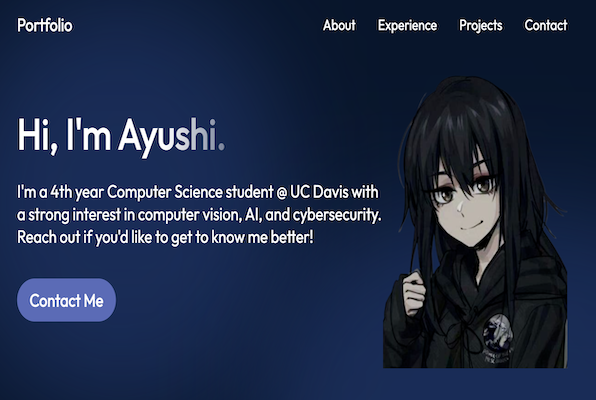
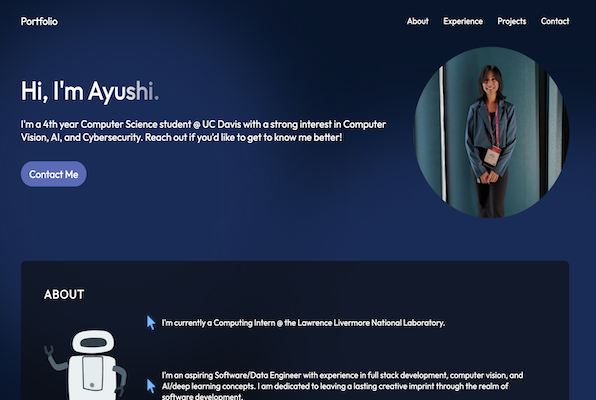
minor fixes

diff --git a/src/components/About/About.jsx b/src/components/About/About.jsx
@@ -17,27 +17,24 @@ export const About = () => {
             <li className={styles.aboutItem}>
                 <img src={getImageUrl("about/cursorIcon.png")} alt= "Cursor icon"/>
                 <div className={styles.aboutItemText}>
-                    <h3>Frontend Developer</h3>
                     <p>
-                        I'm a frontend dev blah blah I love coding yey
+                        I'm currently a Computing Intern @ the Lawrence Livermore National Laboratory. 
                     </p>
                 </div>
             </li>
             <li className={styles.aboutItem}>
-                <img src={getImageUrl("about/serverIcon.png")} alt= "Server icon"/>
+                <img src={getImageUrl("about/cursorIcon.png")} alt= "Cursor icon"/>
                 <div className={styles.aboutItemText}>
-                    <h3>Backend Developer</h3>
                     <p>
-                    I can also do backend lol but i wanna be better
+                    I'm an aspiring Software/Data Engineer with experience in full stack development, computer vision, and AI/deep learning concepts. I am dedicated to leaving a lasting creative imprint through the realm of software development.
                     </p>
                 </div>
             </li>
             <li className={styles.aboutItem}>
                 <img src={getImageUrl("about/cursorIcon.png")} alt= "UI icon"/>
                 <div className={styles.aboutItemText}>
-                    <h3>UI Designer</h3>
                     <p>
-                        I wish I was a designer omg
+                        When I'm not coding, I enjoy dancing, reading about new scientific developments, and going on nature hikes.
                     </p>
                 </div>
             </li>

diff --git a/src/components/Hero/Hero.jsx b/src/components/Hero/Hero.jsx
@@ -8,9 +8,9 @@ export const Hero = () => {
     <div className={styles.content}>
         <h1 className={styles.title}>Hi, I'm Ayushi.</h1>
         <p className={styles.description}>
-            I'm a 4th year Computer Science student @ UC Davis with a strong interest in computer vision, AI, and cybersecurity. Reach out if you'd like to get to know me better!
+            I'm a 4th year Computer Science student @ UC Davis with a strong interest in Computer Vision, AI, and Cybersecurity. Reach out if you'd like to get to know me better!
         </p>
-        <a href="mailto:ayushibhatnagar242@gmail.com" className={styles.contactBtn}>Contact Me</a>
+        <a href="mailto:aybhatnagar@ucdavis.edu" className={styles.contactBtn}>Contact Me</a>
     </div>
     <img src={getImageUrl("hero/heroimg.png")} alt="Hero image of me" className={styles.heroImg}/>
         <div className= {styles.topBlur} />

diff --git a/src/components/Contact/Contact.jsx b/src/components/Contact/Contact.jsx
@@ -12,7 +12,7 @@ export const Contact = () => {
         <ul className={styles.links}>
             <li className={styles.link}>
                 <img src={getImageUrl("contact/emailIcon.png")} alt="Email icon"/>
-                <a href="mailto:ayushibhatnagar242@gmail.com">ayushibhatnagar242@gmail.com</a>
+                <a href="mailto:aybhatnagar@ucdavis.edu">aybhatnagar@ucdavis.edu</a>
             </li>
             <li className={styles.link}>
                 <img src={getImageUrl("contact/linkedinIcon.png")} alt="LinkedIn icon"/>

diff --git a/src/components/Projects/ProjectCard.module.css b/src/components/Projects/ProjectCard.module.css
@@ -11,6 +11,8 @@
     height: 100%;
 }
 
+
+
 .image {
     margin-bottom: 26px;
 }
